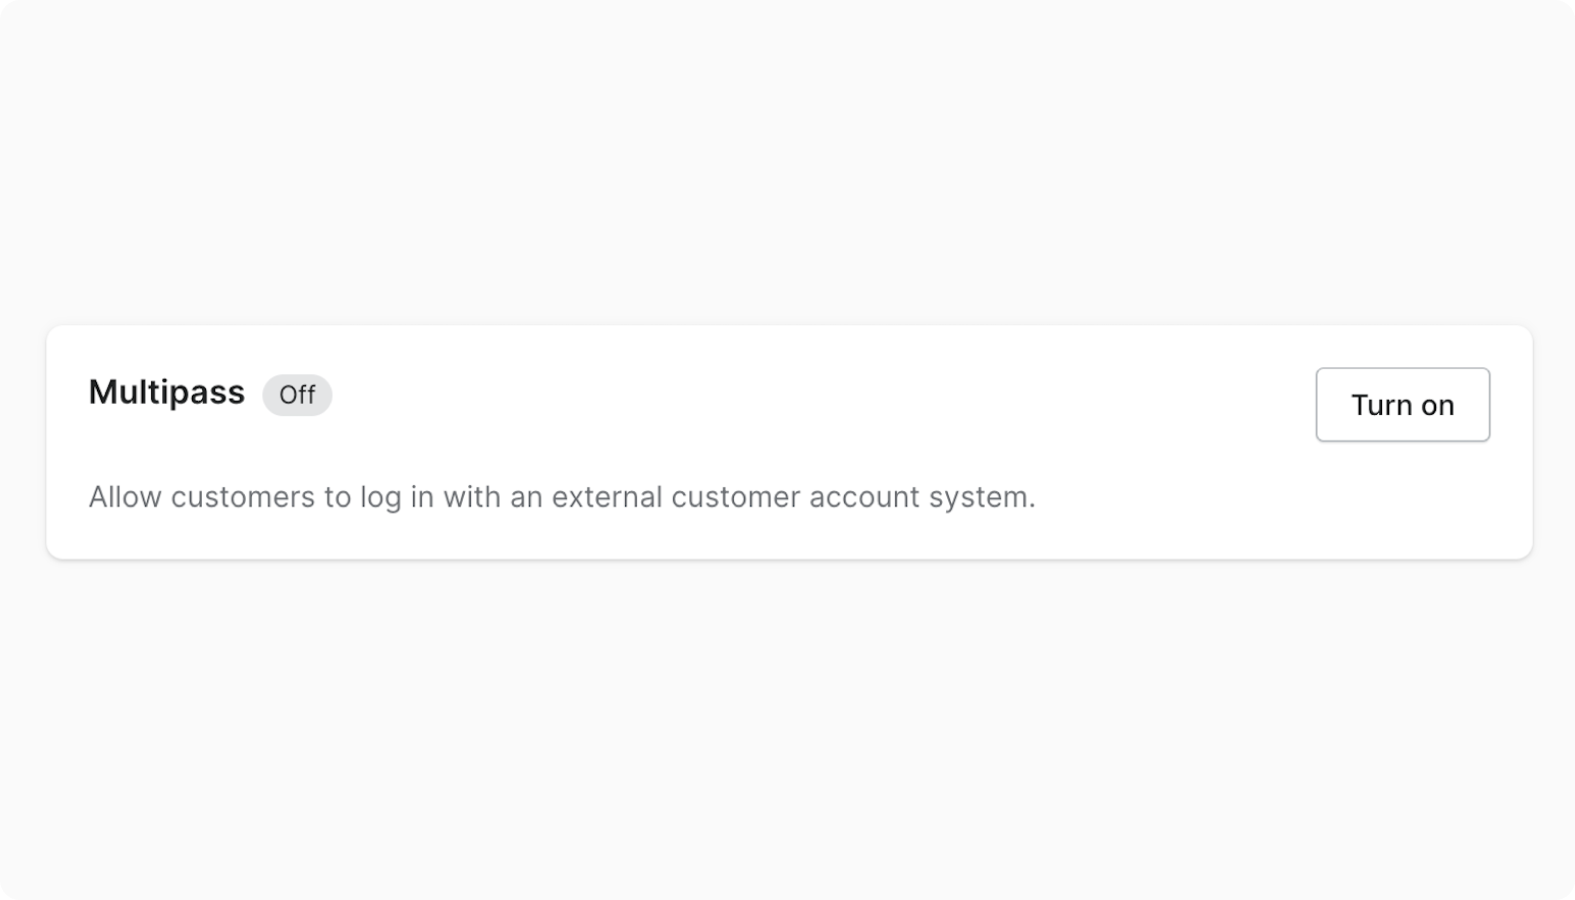
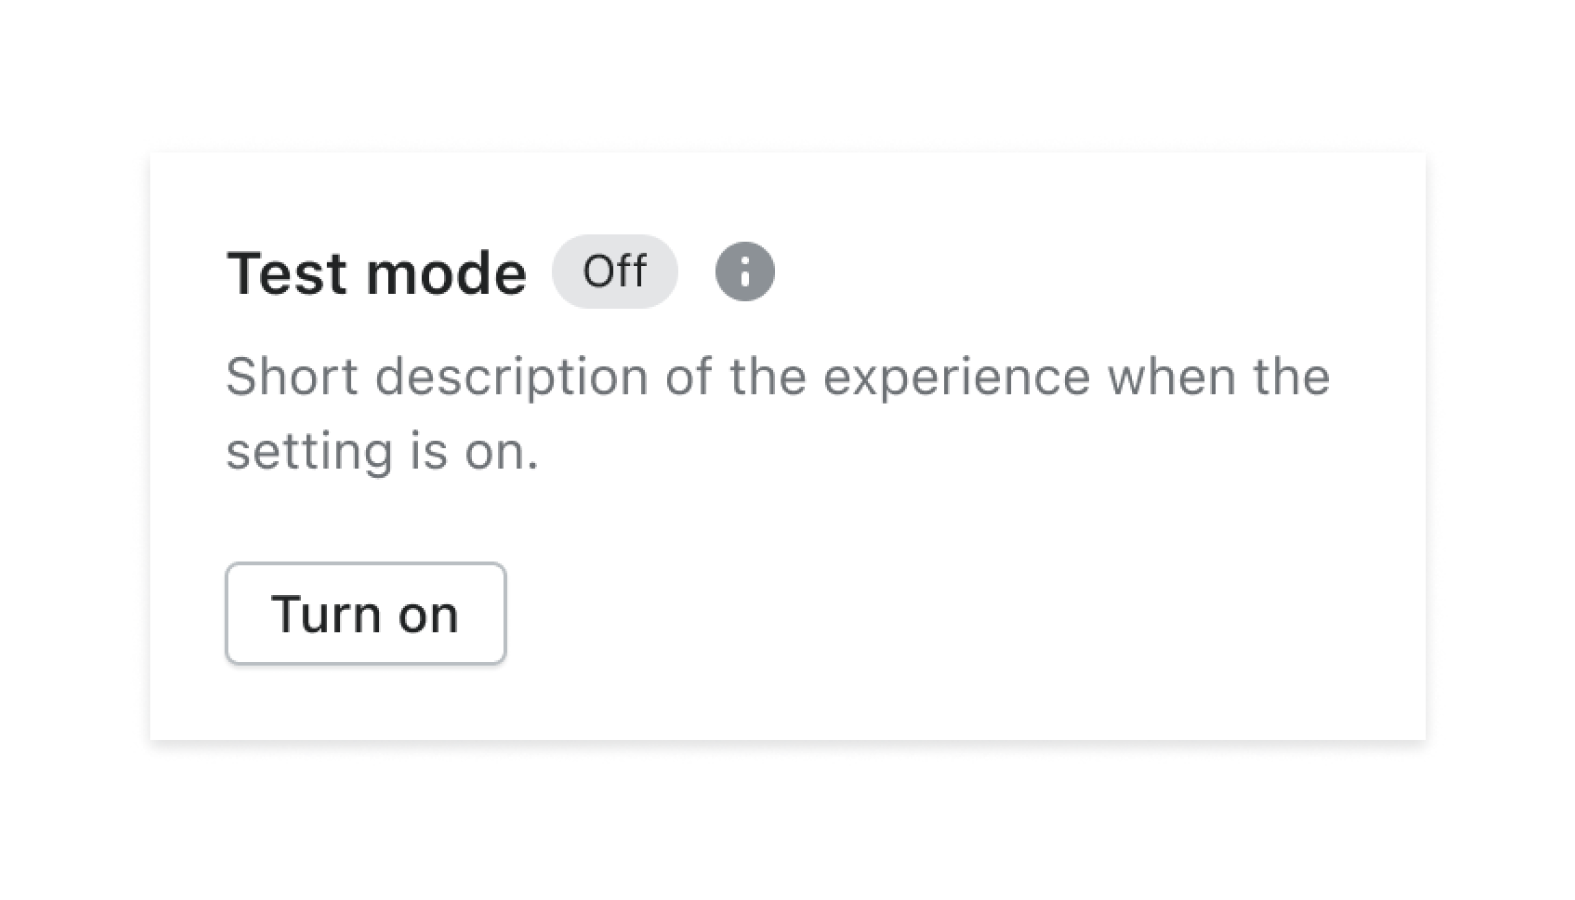
Add content and documentation changes

diff --git a/polaris-react/src/components/SettingToggle/SettingToggle.stories.tsx b/polaris-react/src/components/SettingToggle/SettingToggle.stories.tsx
@@ -9,7 +9,9 @@ import {
   Button,
   Badge,
   AlphaStack,
+  useBreakpoints,
 } from '@shopify/polaris';
+import {CircleInformationMajor} from '@shopify/polaris-icons';
 
 export default {
   component: SettingToggle,
@@ -50,13 +52,7 @@ export function WithPrimitiveComponents() {
   const toggleId = 'setting-toggle-uuid';
   const descriptionId = 'setting-toggle-description-uuid';
 
-  function navigationBarCollapsed() {
-    return typeof window === 'undefined'
-      ? false
-      : window.matchMedia(`(max-width: 767.95px)`).matches;
-  }
-
-  const isNavigationCollapsed = navigationBarCollapsed();
+  const {mdDown} = useBreakpoints();
 
   const badgeStatus = enabled ? 'success' : undefined;
 
@@ -75,16 +71,21 @@ export function WithPrimitiveComponents() {
     </Badge>
   );
 
+  const helpLink = <Button plain icon={CircleInformationMajor} />;
+
   const settingTitle = title ? (
     <Inline gap="2" wrap={false}>
-      <label htmlFor={toggleId}>
-        <Inline gap="2" align="start" blockAlign="baseline" wrap={false}>
+      <Inline gap="2" align="start" blockAlign="baseline">
+        <label htmlFor={toggleId}>
           <Text variant="headingMd" as="h6">
             {title}
           </Text>
+        </label>
+        <Inline gap="2" align="center" blockAlign="center">
           {settingStatusMarkup}
+          {helpLink}
         </Inline>
-      </label>
+      </Inline>
     </Inline>
   ) : null;
 
@@ -104,7 +105,7 @@ export function WithPrimitiveComponents() {
     <Box width="100%">
       <Inline gap="12" align="space-between" blockAlign="start" wrap={false}>
         {settingTitle}
-        {!isNavigationCollapsed ? (
+        {!mdDown ? (
           <Box minWidth="fit-content">
             <Inline align="end">{actionMarkup}</Inline>
           </Box>
@@ -118,7 +119,110 @@ export function WithPrimitiveComponents() {
       <Text id={descriptionId} variant="bodyMd" as="p" color="subdued">
         {description}
       </Text>
-      {isNavigationCollapsed ? (
+      {mdDown ? (
+        <Box width="100%">
+          <Inline align="start">{actionMarkup}</Inline>
+        </Box>
+      ) : null}
+    </AlphaStack>
+  );
+
+  return (
+    <AlphaCard>
+      <AlphaStack gap={{xs: '4', sm: '5'}}>
+        <Box width="100%">
+          <AlphaStack gap={{xs: '2', sm: '4'}}>
+            {headerMarkup}
+            {descriptionMarkup}
+          </AlphaStack>
+        </Box>
+        <Text variant="bodyMd" as="p">
+          Your checkout is only accepting test payments.
+        </Text>
+      </AlphaStack>
+    </AlphaCard>
+  );
+}
+
+export function WithPrimitiveComponentsAndLongTitle() {
+  const [enabled, setEnabled] = useState(true);
+
+  const handleToggle = useCallback(() => setEnabled((enabled) => !enabled), []);
+
+  const contentStatus = enabled ? 'Turn off' : 'Turn on';
+
+  const toggleId = 'setting-toggle-uuid';
+  const descriptionId = 'setting-toggle-description-uuid';
+
+  const {mdDown} = useBreakpoints();
+
+  const badgeStatus = enabled ? 'success' : undefined;
+
+  const badgeContent = enabled ? 'On' : 'Off';
+
+  const title =
+    'Test mode but with very long mega title that wraps to demonstrate how layout changes';
+  const description =
+    'Simulate transactions to test your checkout and order flows. When test mode is on, checkout does not accept real credit cards.';
+
+  const settingStatusMarkup = (
+    <Badge
+      status={badgeStatus}
+      statusAndProgressLabelOverride={`Setting is ${badgeContent}`}
+    >
+      {badgeContent}
+    </Badge>
+  );
+
+  const helpLink = <Button plain icon={CircleInformationMajor} />;
+
+  const settingTitle = title ? (
+    <Inline gap="2" wrap={false}>
+      <Inline gap="2" align="start" blockAlign="baseline">
+        <label htmlFor={toggleId}>
+          <Text variant="headingMd" as="h6">
+            {title}
+          </Text>
+        </label>
+        <Inline gap="2" align="center" blockAlign="center">
+          {settingStatusMarkup}
+          {helpLink}
+        </Inline>
+      </Inline>
+    </Inline>
+  ) : null;
+
+  const actionMarkup = (
+    <Button
+      role="switch"
+      id={toggleId}
+      ariaChecked={enabled ? 'true' : 'false'}
+      onClick={handleToggle}
+      size="slim"
+    >
+      {contentStatus}
+    </Button>
+  );
+
+  const headerMarkup = (
+    <Box width="100%">
+      <Inline gap="12" align="space-between" blockAlign="start" wrap={false}>
+        {settingTitle}
+        {!mdDown ? (
+          <Box minWidth="fit-content">
+            <Inline align="end">{actionMarkup}</Inline>
+          </Box>
+        ) : null}
+      </Inline>
+    </Box>
+  );
+
+  const descriptionMarkup = (
+    <AlphaStack gap="4">
+      <Text id={descriptionId} variant="bodyMd" as="p" color="subdued">
+        {description}
+      </Text>
+      {mdDown ? (
         <Box width="100%">
           <Inline align="start">{actionMarkup}</Inline>
         </Box>

diff --git a/polaris.shopify.com/pages/examples/setting-toggle-with-primitive-components.tsx b/polaris.shopify.com/pages/examples/setting-toggle-with-primitive-components.tsx
@@ -6,11 +6,13 @@ import {
   Button,
   Badge,
   AlphaStack,
+  useBreakpoints,
 } from '@shopify/polaris';
+import {CircleInformationMajor} from '@shopify/polaris-icons';
 import {useState, useCallback, useEffect} from 'react';
 import {withPolarisExample} from '../../src/components/PolarisExampleWrapper';
 
-function WithPrimitiveComponents() {
+export function WithPrimitiveComponents() {
   const [enabled, setEnabled] = useState(true);
 
   const handleToggle = useCallback(() => setEnabled((enabled) => !enabled), []);
@@ -20,7 +22,7 @@ function WithPrimitiveComponents() {
   const toggleId = 'setting-toggle-uuid';
   const descriptionId = 'setting-toggle-description-uuid';
 
-  const isNavigationCollapsed = useMedia('screen and (max-width: 767.95px)');
+  const {mdDown} = useBreakpoints();
 
   const badgeStatus = enabled ? 'success' : undefined;
 
@@ -39,16 +41,21 @@ function WithPrimitiveComponents() {
     </Badge>
   );
 
+  const helpLink = <Button plain icon={CircleInformationMajor} />;
+
   const settingTitle = title ? (
     <Inline gap="2" wrap={false}>
-      <label htmlFor={toggleId}>
-        <Inline gap="2" align="start" blockAlign="baseline" wrap={false}>
+      <Inline gap="2" align="start" blockAlign="baseline">
+        <label htmlFor={toggleId}>
           <Text variant="headingMd" as="h6">
             {title}
           </Text>
+        </label>
+        <Inline gap="2" align="center" blockAlign="center">
           {settingStatusMarkup}
+          {helpLink}
         </Inline>
-      </label>
+      </Inline>
     </Inline>
   ) : null;
 
@@ -68,7 +75,7 @@ function WithPrimitiveComponents() {
     <Box width="100%">
       <Inline gap="12" align="space-between" blockAlign="start" wrap={false}>
         {settingTitle}
-        {!isNavigationCollapsed ? (
+        {!mdDown ? (
           <Box minWidth="fit-content">
             <Inline align="end">{actionMarkup}</Inline>
           </Box>
@@ -82,7 +89,7 @@ function WithPrimitiveComponents() {
       <Text id={descriptionId} variant="bodyMd" as="p" color="subdued">
         {description}
       </Text>
-      {isNavigationCollapsed ? (
+      {mdDown ? (
         <Box width="100%">
           <Inline align="start">{actionMarkup}</Inline>
         </Box>
@@ -105,30 +112,6 @@ function WithPrimitiveComponents() {
       </AlphaStack>
     </AlphaCard>
   );
-
-  function useMedia(media: string): boolean {
-    const [isActive, setIsActive] = useState(false);
-
-    useEffect(() => {
-      if (typeof window !== 'undefined') {
-        const mediaQueryList = window.matchMedia(media);
-
-        setIsActive(mediaQueryList.matches);
-
-        const listener = (evt: MediaQueryListEvent) => {
-          setIsActive(evt.matches);
-        };
-
-        mediaQueryList.addEventListener('change', listener);
-
-        return () => {
-          mediaQueryList.removeEventListener('change', listener);
-        };
-      }
-    }, [media]);
-
-    return isActive;
-  }
 }
 
 export default withPolarisExample(WithPrimitiveComponents);

diff --git a/polaris.shopify.com/content/components/selection-and-input/setting-toggle.md b/polaris.shopify.com/content/components/selection-and-input/setting-toggle.md
@@ -26,20 +26,39 @@ examples:
 
 ## Best practices
 
-The setting toggle component should be used when:
-
-- The setting is stand alone, and
-- There are only two binary options that are “On”/“Off”
-
-If the setting is dependent on other settings, uses progressive disclosure, or has options that are not a simple “On”/“Off”, use a different UI element such as [Checkbox](https://polaris.shopify.com/components/selection-and-input/checkbox) or [Radio button](https://polaris.shopify.com/components/selection-and-input/radio-button).
-
 Settings toggles should:
 
+- Include a title
 - Include body content describing the experience when the setting is turned on.
 - Use a badge to clearly indicate whether the setting is turned on or off.
 - Use a default button for both states. A primary button can be misinterpreted as the setting being turned on.
 
 If more information is needed to explain setting details or functionality, include the [Info](https://polaris.shopify.com/icons?icon=InfoMinor&q=) icon and link to help content or related documentation.
+
+### Usage
+
+The setting toggle component should only be used when:
+
+- The setting is stand alone
+- There are two binary options that are “On”/“Off”
+
+If the setting is dependent on other settings, uses progressive disclosure, or has options that are not a simple “On”/“Off”, use a different UI element such as [Checkbox](https://polaris.shopify.com/components/selection-and-input/checkbox) or [Radio button](https://polaris.shopify.com/components/selection-and-input/radio-button).
+
+<!-- dodont -->
+
+#### Do
+
+Only include the actions Turn on/ Turn off.
+
+![Setting toggle do](/images/components/selection-and-input/setting-toggle/Do.png)
+
+#### Don’t
+
+Don't include additional settings or inputs.
+
+![Setting toggle dont](/images/components/selection-and-input/setting-toggle/Dont.png)
+
+<!-- end -->
 
 ---
 
